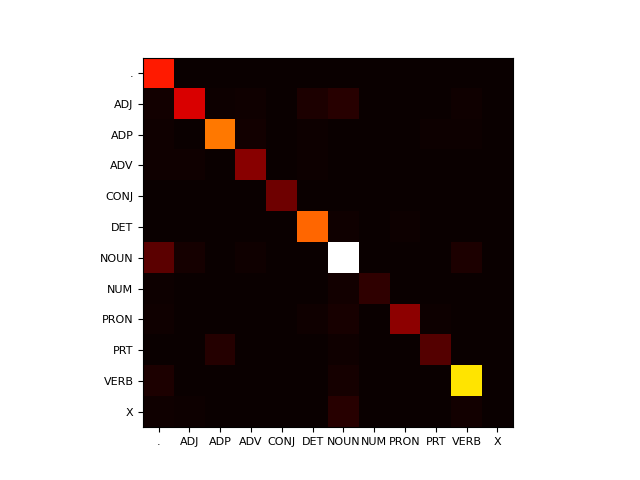
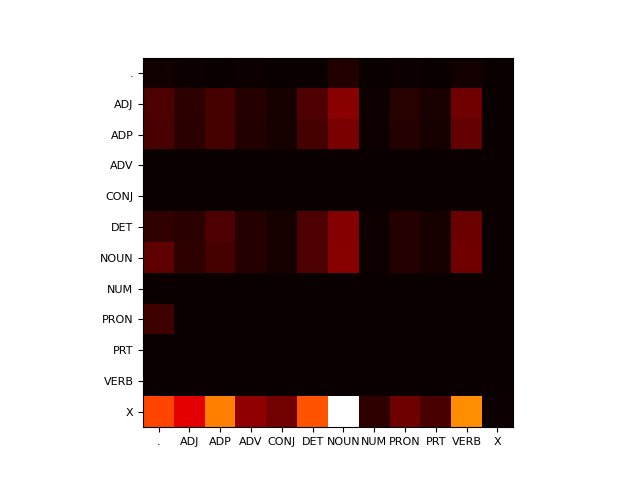
...

diff --git a/tagger.py b/tagger.py
@@ -1,3 +1,4 @@
+from this import d
 from time import time
 import matplotlib.pyplot as plt
 import numpy as np
@@ -220,6 +221,8 @@ class Tagger:
         self.emmis = np.load("emmis.npy")
         self.trellis = np.load("trellis.npy")
         self.init_prob = np.load("init_prob.npy")
+        self.words = np.loadtxt("words.txt",dtype='U')
+        self.tags = np.loadtxt("tags.txt",dtype='U')
     def dptable(self, V):
         
         yield " ".join(("%12d" % i) for i in range(len(V)))
@@ -242,9 +245,9 @@ class Tagger:
         
         for t in range(1, len(Y)):
             constvt1 = np.tile(np.array([V[t-1][:,0].flatten()]).T,len(states))
-            vals = constvt1+transitionProbs # 12x12
-            stateSel = np.argmax(vals,0)
-            transProbMax = np.max(vals,0).flatten()+np.log10(emissionProbs[:,Y[t]]).flatten()
+            vals = constvt1+transitionProbs.T # 12x12
+            stateSel = np.argmax(vals,1).flatten()
+            transProbMax = np.max(vals,1).flatten()+np.log10(emissionProbs[:,Y[t]]).flatten()
             V[t] = np.stack([transProbMax,stateSel],1)
         maxProb = -1000
         previousState = None
@@ -298,6 +301,7 @@ def findEvalMetrics(k):
         ))
         POStagger = Tagger()
         POStagger.trainOn(trainSents)
+        POStagger.saveTagger()
         predTags = POStagger.testOn(testSentsOnlyWords)
         
         confmat, acc, pposa = POStagger.evalMetrics(predTags,testSentsOnlyTags)
